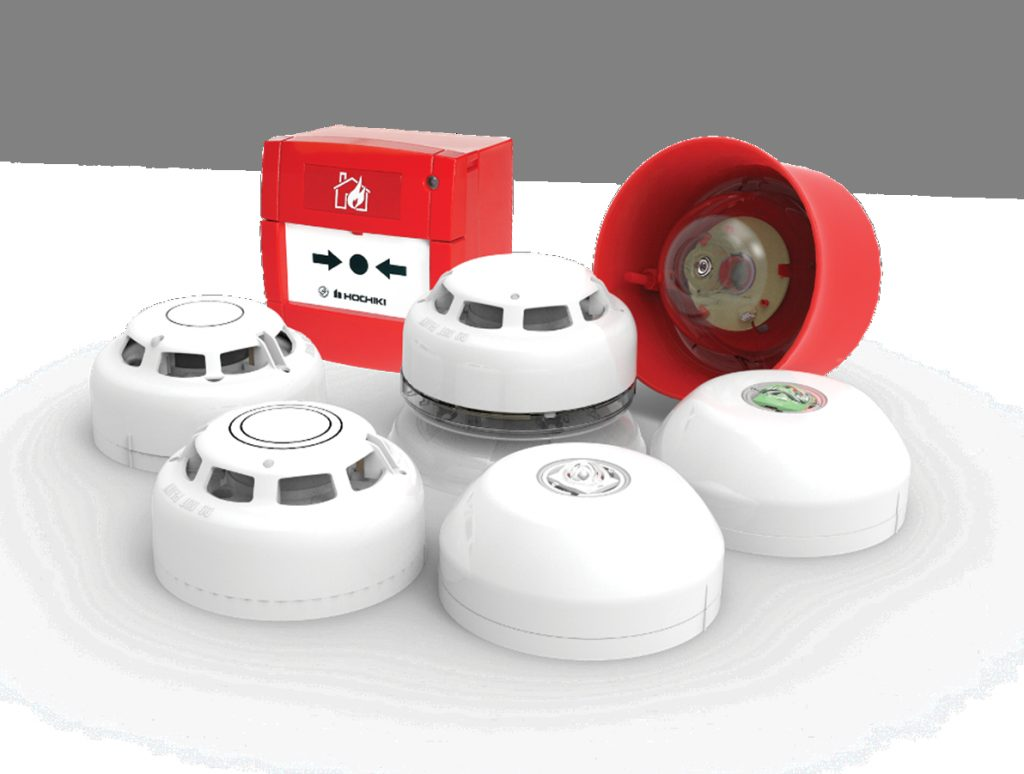
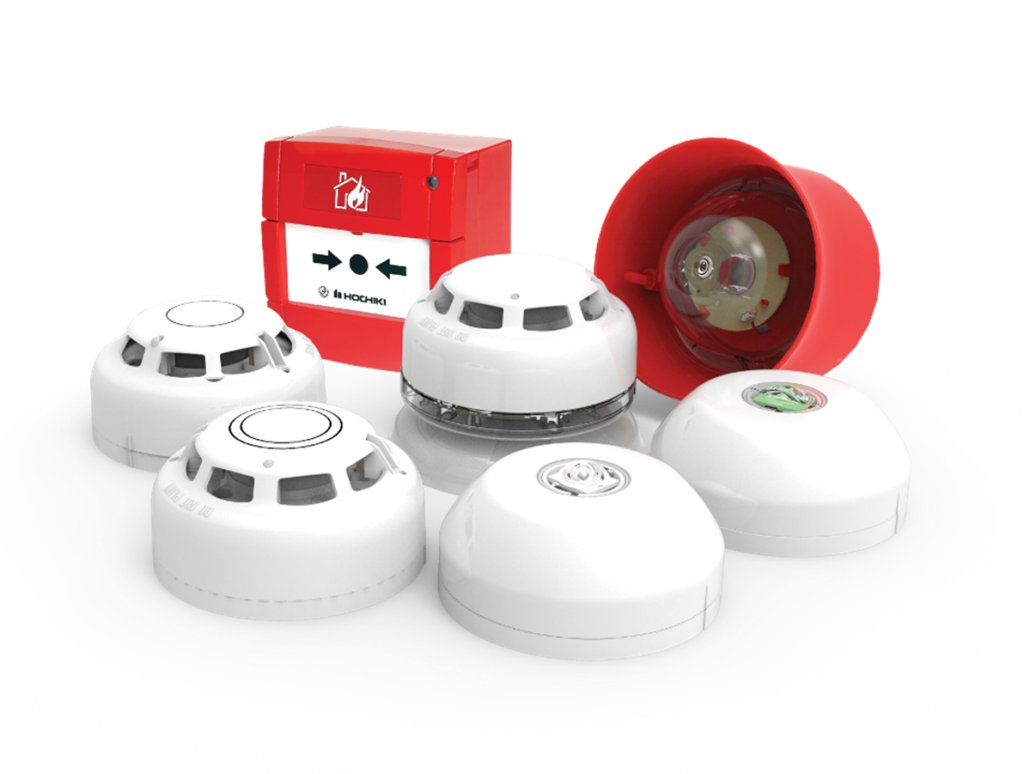
Put the product cut-outs back on white, not black
The sprinkler, foam and detector shots have been sitting on a black slab
since cd9eff7 "Shrink the six images that were costing the most". That
commit did the right thing to the wrong three files: all three were
PNG/RGBA cut-outs — 74%, 33% and 62% transparent — and converting them
to JPEG dropped the alpha channel onto the default black matte. Its
message says nothing on screen changes; for these three it did.

The other four it touched were fine: cust-akr.png and jlj.webp kept
their alpha in-format, and div-automotive was PNG/RGB with nothing to
lose.

Re-encoded from the pre-commit PNGs, at the same dimensions that commit
chose, composited onto white instead. White is the matte this wants: the
cards blend their art with mix-blend-mode:multiply, so white disappears
against the card and black is the one colour that cannot. Same bytes,
opposite result — 70/52/61 KB against 83/55/61 KB now.

Recovering the originals matters rather than patching the JPEGs. A flood
fill was tried first and cannot work on the foam rig: its equipment is
outlined in the same near-black as the backdrop, so every threshold
either left patches or ate the tank shoulder and the pipework. The alpha
channel already knew exactly where the product ended; going back to it
gets all three perfect instead of two.

The filenames are unchanged, so a returning visitor would be served the
black-backed copies from cache. All nine references across the three
pages carry a ?v= stamp.

diff --git a/fire-fighting/products-services.html b/fire-fighting/products-services.html
@@ -113,7 +113,7 @@
   <h4 class="ptitle">Fire Hydrant Systems</h4><p class="pcap">Indoor &amp; Outdoor</p>
 </div>
 <div class="pcard reveal d1">
-  <div class="pbox"><img src="photos/prod-sprinkler.jpg" alt="Upright, pendent and concealed sprinkler heads with ceiling cover plates" loading="lazy" onload="this.parentElement.classList.add('pbox-photo');var s=this.nextElementSibling;if(s)s.style.display='none'" onerror="this.style.display='none'" /><svg viewBox="0 0 240 170" xmlns="http://www.w3.org/2000/svg" role="img" aria-label="Brass pendent sprinkler head with red riser"><defs>
+  <div class="pbox"><img src="photos/prod-sprinkler.jpg?v=202608121633" alt="Upright, pendent and concealed sprinkler heads with ceiling cover plates" loading="lazy" onload="this.parentElement.classList.add('pbox-photo');var s=this.nextElementSibling;if(s)s.style.display='none'" onerror="this.style.display='none'" /><svg viewBox="0 0 240 170" xmlns="http://www.w3.org/2000/svg" role="img" aria-label="Brass pendent sprinkler head with red riser"><defs>
 <linearGradient id="redsp2_1" x1="0" y1="0" x2="1" y2="0">
  <stop offset="0" stop-color="#6f0916"/><stop offset=".16" stop-color="#a41125"/><stop offset=".38" stop-color="#d62038"/><stop offset=".5" stop-color="#ef4a56"/><stop offset=".62" stop-color="#d62038"/><stop offset=".85" stop-color="#98101f"/><stop offset="1" stop-color="#5f0812"/>
 </linearGradient>
@@ -228,7 +228,7 @@
   <h4 class="ptitle">Gas Suppression</h4><p class="pcap">Gas materials (Clean agent, Inert gas, CO&#8322;) for sensitive areas</p>
 </div>
 <div class="pcard reveal">
-  <div class="pbox"><img src="photos/prod-foam.jpg" alt="Foam bladder tank with proportioner, strainer and foam chamber" loading="lazy" onload="this.parentElement.classList.add('pbox-photo');var s=this.nextElementSibling;if(s)s.style.display='none'" onerror="this.style.display='none'" /><svg viewBox="0 0 240 170" xmlns="http://www.w3.org/2000/svg" role="img" aria-label="Foam bladder tank with proportioner piping"><defs>
+  <div class="pbox"><img src="photos/prod-foam.jpg?v=202608121633" alt="Foam bladder tank with proportioner, strainer and foam chamber" loading="lazy" onload="this.parentElement.classList.add('pbox-photo');var s=this.nextElementSibling;if(s)s.style.display='none'" onerror="this.style.display='none'" /><svg viewBox="0 0 240 170" xmlns="http://www.w3.org/2000/svg" role="img" aria-label="Foam bladder tank with proportioner piping"><defs>
 <linearGradient id="RVd_4" x1="0" y1="0" x2="1" y2="0">
  <stop offset="0" stop-color="#7e0a1c"/><stop offset=".18" stop-color="#c11330"/><stop offset=".42" stop-color="#ef2a48"/><stop offset=".55" stop-color="#f6566d"/><stop offset=".7" stop-color="#e01936"/><stop offset="1" stop-color="#8a0b20"/>
 </linearGradient>
@@ -275,7 +275,7 @@
   <h4 class="ptitle">Foam Suppression</h4><p class="pcap">High-, Medium-, &amp; Low-Expansion</p>
 </div>
 <div class="pcard reveal d1">
-  <div class="pbox"><img src="photos/prod-alarm.jpg" alt="Smoke and heat detectors with a manual call point and alarm sounder" loading="lazy" onload="this.parentElement.classList.add('pbox-photo');var s=this.nextElementSibling;if(s)s.style.display='none'" onerror="this.style.display='none'" /><svg viewBox="0 0 240 170" xmlns="http://www.w3.org/2000/svg" role="img" aria-label="Addressable fire alarm control panel with detector and manual call point"><defs>
+  <div class="pbox"><img src="photos/prod-alarm.jpg?v=202608121633" alt="Smoke and heat detectors with a manual call point and alarm sounder" loading="lazy" onload="this.parentElement.classList.add('pbox-photo');var s=this.nextElementSibling;if(s)s.style.display='none'" onerror="this.style.display='none'" /><svg viewBox="0 0 240 170" xmlns="http://www.w3.org/2000/svg" role="img" aria-label="Addressable fire alarm control panel with detector and manual call point"><defs>
 <linearGradient id="RVe_5" x1="0" y1="0" x2="1" y2="0">
  <stop offset="0" stop-color="#7e0a1c"/><stop offset=".18" stop-color="#c11330"/><stop offset=".42" stop-color="#ef2a48"/><stop offset=".55" stop-color="#f6566d"/><stop offset=".7" stop-color="#e01936"/><stop offset="1" stop-color="#8a0b20"/>
 </linearGradient>

diff --git a/fire-fighting/hanindo-citra-website.html b/fire-fighting/hanindo-citra-website.html
@@ -315,7 +315,7 @@
   <div class="pbody"><h4>Fire Hydrant Systems</h4><p>Pumps, piping &amp; landing valves</p></div>
 </div>
 <div class="pcard reveal d1">
-  <div class="pbox"><img src="photos/prod-sprinkler.jpg" alt="" loading="lazy" onload="this.parentElement.classList.add('pbox-photo');var s=this.nextElementSibling;if(s)s.style.display='none'" onerror="this.style.display='none'" /><svg viewBox="0 0 240 170" xmlns="http://www.w3.org/2000/svg" role="img" aria-label="Brass pendent sprinkler head with red riser"><defs>
+  <div class="pbox"><img src="photos/prod-sprinkler.jpg?v=202608121633" alt="" loading="lazy" onload="this.parentElement.classList.add('pbox-photo');var s=this.nextElementSibling;if(s)s.style.display='none'" onerror="this.style.display='none'" /><svg viewBox="0 0 240 170" xmlns="http://www.w3.org/2000/svg" role="img" aria-label="Brass pendent sprinkler head with red riser"><defs>
 <linearGradient id="redsp2_6" x1="0" y1="0" x2="1" y2="0">
  <stop offset="0" stop-color="#6f0916"/><stop offset=".16" stop-color="#a41125"/><stop offset=".38" stop-color="#d62038"/><stop offset=".5" stop-color="#ef4a56"/><stop offset=".62" stop-color="#d62038"/><stop offset=".85" stop-color="#98101f"/><stop offset="1" stop-color="#5f0812"/>
 </linearGradient>
@@ -430,7 +430,7 @@
   <div class="pbody"><h4>Gas Suppression</h4><p>Clean agent for sensitive areas</p></div>
 </div>
 <div class="pcard reveal">
-  <div class="pbox"><img src="photos/prod-foam.jpg" alt="" loading="lazy" onload="this.parentElement.classList.add('pbox-photo');var s=this.nextElementSibling;if(s)s.style.display='none'" onerror="this.style.display='none'" /><svg viewBox="0 0 240 170" xmlns="http://www.w3.org/2000/svg" role="img" aria-label="Foam bladder tank with proportioner piping"><defs>
+  <div class="pbox"><img src="photos/prod-foam.jpg?v=202608121633" alt="" loading="lazy" onload="this.parentElement.classList.add('pbox-photo');var s=this.nextElementSibling;if(s)s.style.display='none'" onerror="this.style.display='none'" /><svg viewBox="0 0 240 170" xmlns="http://www.w3.org/2000/svg" role="img" aria-label="Foam bladder tank with proportioner piping"><defs>
 <linearGradient id="RVd_10" x1="0" y1="0" x2="1" y2="0">
  <stop offset="0" stop-color="#7e0a1c"/><stop offset=".18" stop-color="#c11330"/><stop offset=".42" stop-color="#ef2a48"/><stop offset=".55" stop-color="#f6566d"/><stop offset=".7" stop-color="#e01936"/><stop offset="1" stop-color="#8a0b20"/>
 </linearGradient>
@@ -477,7 +477,7 @@
   <div class="pbody"><h4>Foam Suppression</h4><p>High-, medium- &amp; low-expansion</p></div>
 </div>
 <div class="pcard reveal d1">
-  <div class="pbox"><img src="photos/prod-alarm.jpg" alt="" loading="lazy" onload="this.parentElement.classList.add('pbox-photo');var s=this.nextElementSibling;if(s)s.style.display='none'" onerror="this.style.display='none'" /><svg viewBox="0 0 240 170" xmlns="http://www.w3.org/2000/svg" role="img" aria-label="Addressable fire alarm control panel with detector and manual call point"><defs>
+  <div class="pbox"><img src="photos/prod-alarm.jpg?v=202608121633" alt="" loading="lazy" onload="this.parentElement.classList.add('pbox-photo');var s=this.nextElementSibling;if(s)s.style.display='none'" onerror="this.style.display='none'" /><svg viewBox="0 0 240 170" xmlns="http://www.w3.org/2000/svg" role="img" aria-label="Addressable fire alarm control panel with detector and manual call point"><defs>
 <linearGradient id="RVe_11" x1="0" y1="0" x2="1" y2="0">
  <stop offset="0" stop-color="#7e0a1c"/><stop offset=".18" stop-color="#c11330"/><stop offset=".42" stop-color="#ef2a48"/><stop offset=".55" stop-color="#f6566d"/><stop offset=".7" stop-color="#e01936"/><stop offset="1" stop-color="#8a0b20"/>
 </linearGradient>

diff --git a/fire-fighting/index.html b/fire-fighting/index.html
@@ -116,10 +116,10 @@
     <div class="tilestrip reveal">
       <div class="strip" id="tilestrip">
         <a class="tile" href="products-services.html"><img src="photos/prod-hydrant.jpg" alt="" loading="lazy" onerror="this.remove()" /><span>Fire Hydrant Systems</span></a>
-        <a class="tile" href="products-services.html"><img src="photos/prod-sprinkler.jpg" alt="" loading="lazy" onerror="this.remove()" /><span>Sprinkler Systems</span></a>
+        <a class="tile" href="products-services.html"><img src="photos/prod-sprinkler.jpg?v=202608121633" alt="" loading="lazy" onerror="this.remove()" /><span>Sprinkler Systems</span></a>
         <a class="tile" href="products-services.html"><img src="photos/prod-gas.jpg" alt="" loading="lazy" onerror="this.remove()" /><span>Gas Suppression</span></a>
-        <a class="tile" href="products-services.html"><img src="photos/prod-foam.jpg" alt="" loading="lazy" onerror="this.remove()" /><span>Foam Suppression</span></a>
-        <a class="tile" href="products-services.html"><img src="photos/prod-alarm.jpg" alt="" loading="lazy" onerror="this.remove()" /><span>Fire Detection &amp; Alarm</span></a>
+        <a class="tile" href="products-services.html"><img src="photos/prod-foam.jpg?v=202608121633" alt="" loading="lazy" onerror="this.remove()" /><span>Foam Suppression</span></a>
+        <a class="tile" href="products-services.html"><img src="photos/prod-alarm.jpg?v=202608121633" alt="" loading="lazy" onerror="this.remove()" /><span>Fire Detection &amp; Alarm</span></a>
         <a class="tile" href="products-services.html"><img src="photos/prod-deluge.jpg" alt="" loading="lazy" onerror="this.remove()" /><span>Deluge Systems</span></a>
       </div>
       <button class="stripmore" type="button" aria-label="Show more systems"><svg viewBox="0 0 24 24"><path d="M9 6l6 6-6 6"/></svg></button>
